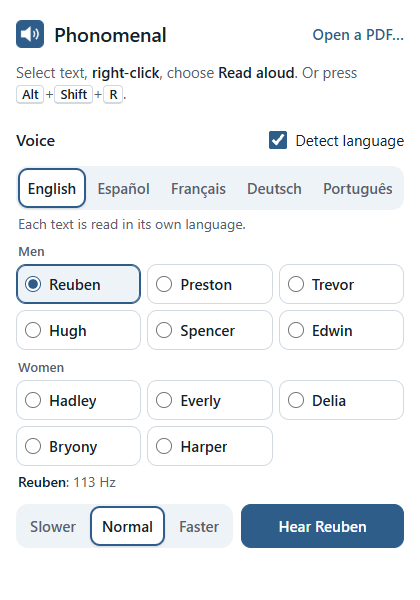
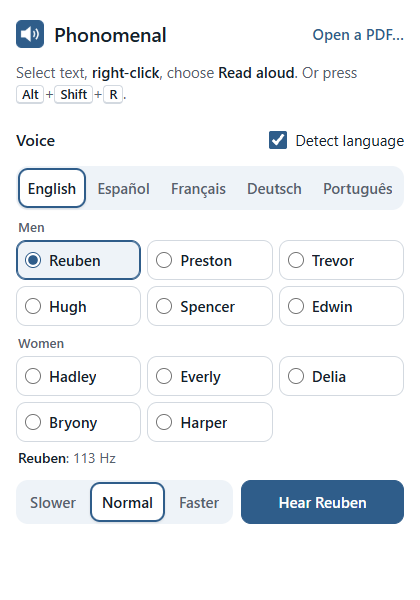
Popup: drop the language line while detection is on

Changed region(s): [[0.031, 0.36, 0.9595, 0.93], [0.4333, 0.81, 0.5262, 0.9]]

diff --git a/extension/popup.js b/extension/popup.js
@@ -26,11 +26,11 @@ for (const l of LANGS) radio($("langs"), "vlang", l.id === shown, l.id, l.name, 
 $("detect").checked = s.lang === "auto";
 $("detect").onchange = () => setLang($("detect").checked ? "auto" : shown);
 function setLang(lang) { s.lang = lang; chrome.storage.sync.set({ lang }); langNote(); }
-// Says what the language row does in each mode; its line is always there, so nothing below moves.
+// With Detect language off, says which language every text is read in. Hidden while detecting.
 function langNote() {
   const fixed = LANGS.find((l) => l.id === s.lang);
-  $("langNote").innerHTML = fixed ? "All text is read in <b></b>." : "Each text is read in its own language.";
-  if (fixed) $("langNote").querySelector("b").textContent = fixed.name;
+  $("langNote").hidden = !fixed;
+  if (fixed) { $("langNote").innerHTML = "All text is read in <b></b>."; $("langNote").querySelector("b").textContent = fixed.name; }
 }
 langNote();
 function showVoices(lang) {
